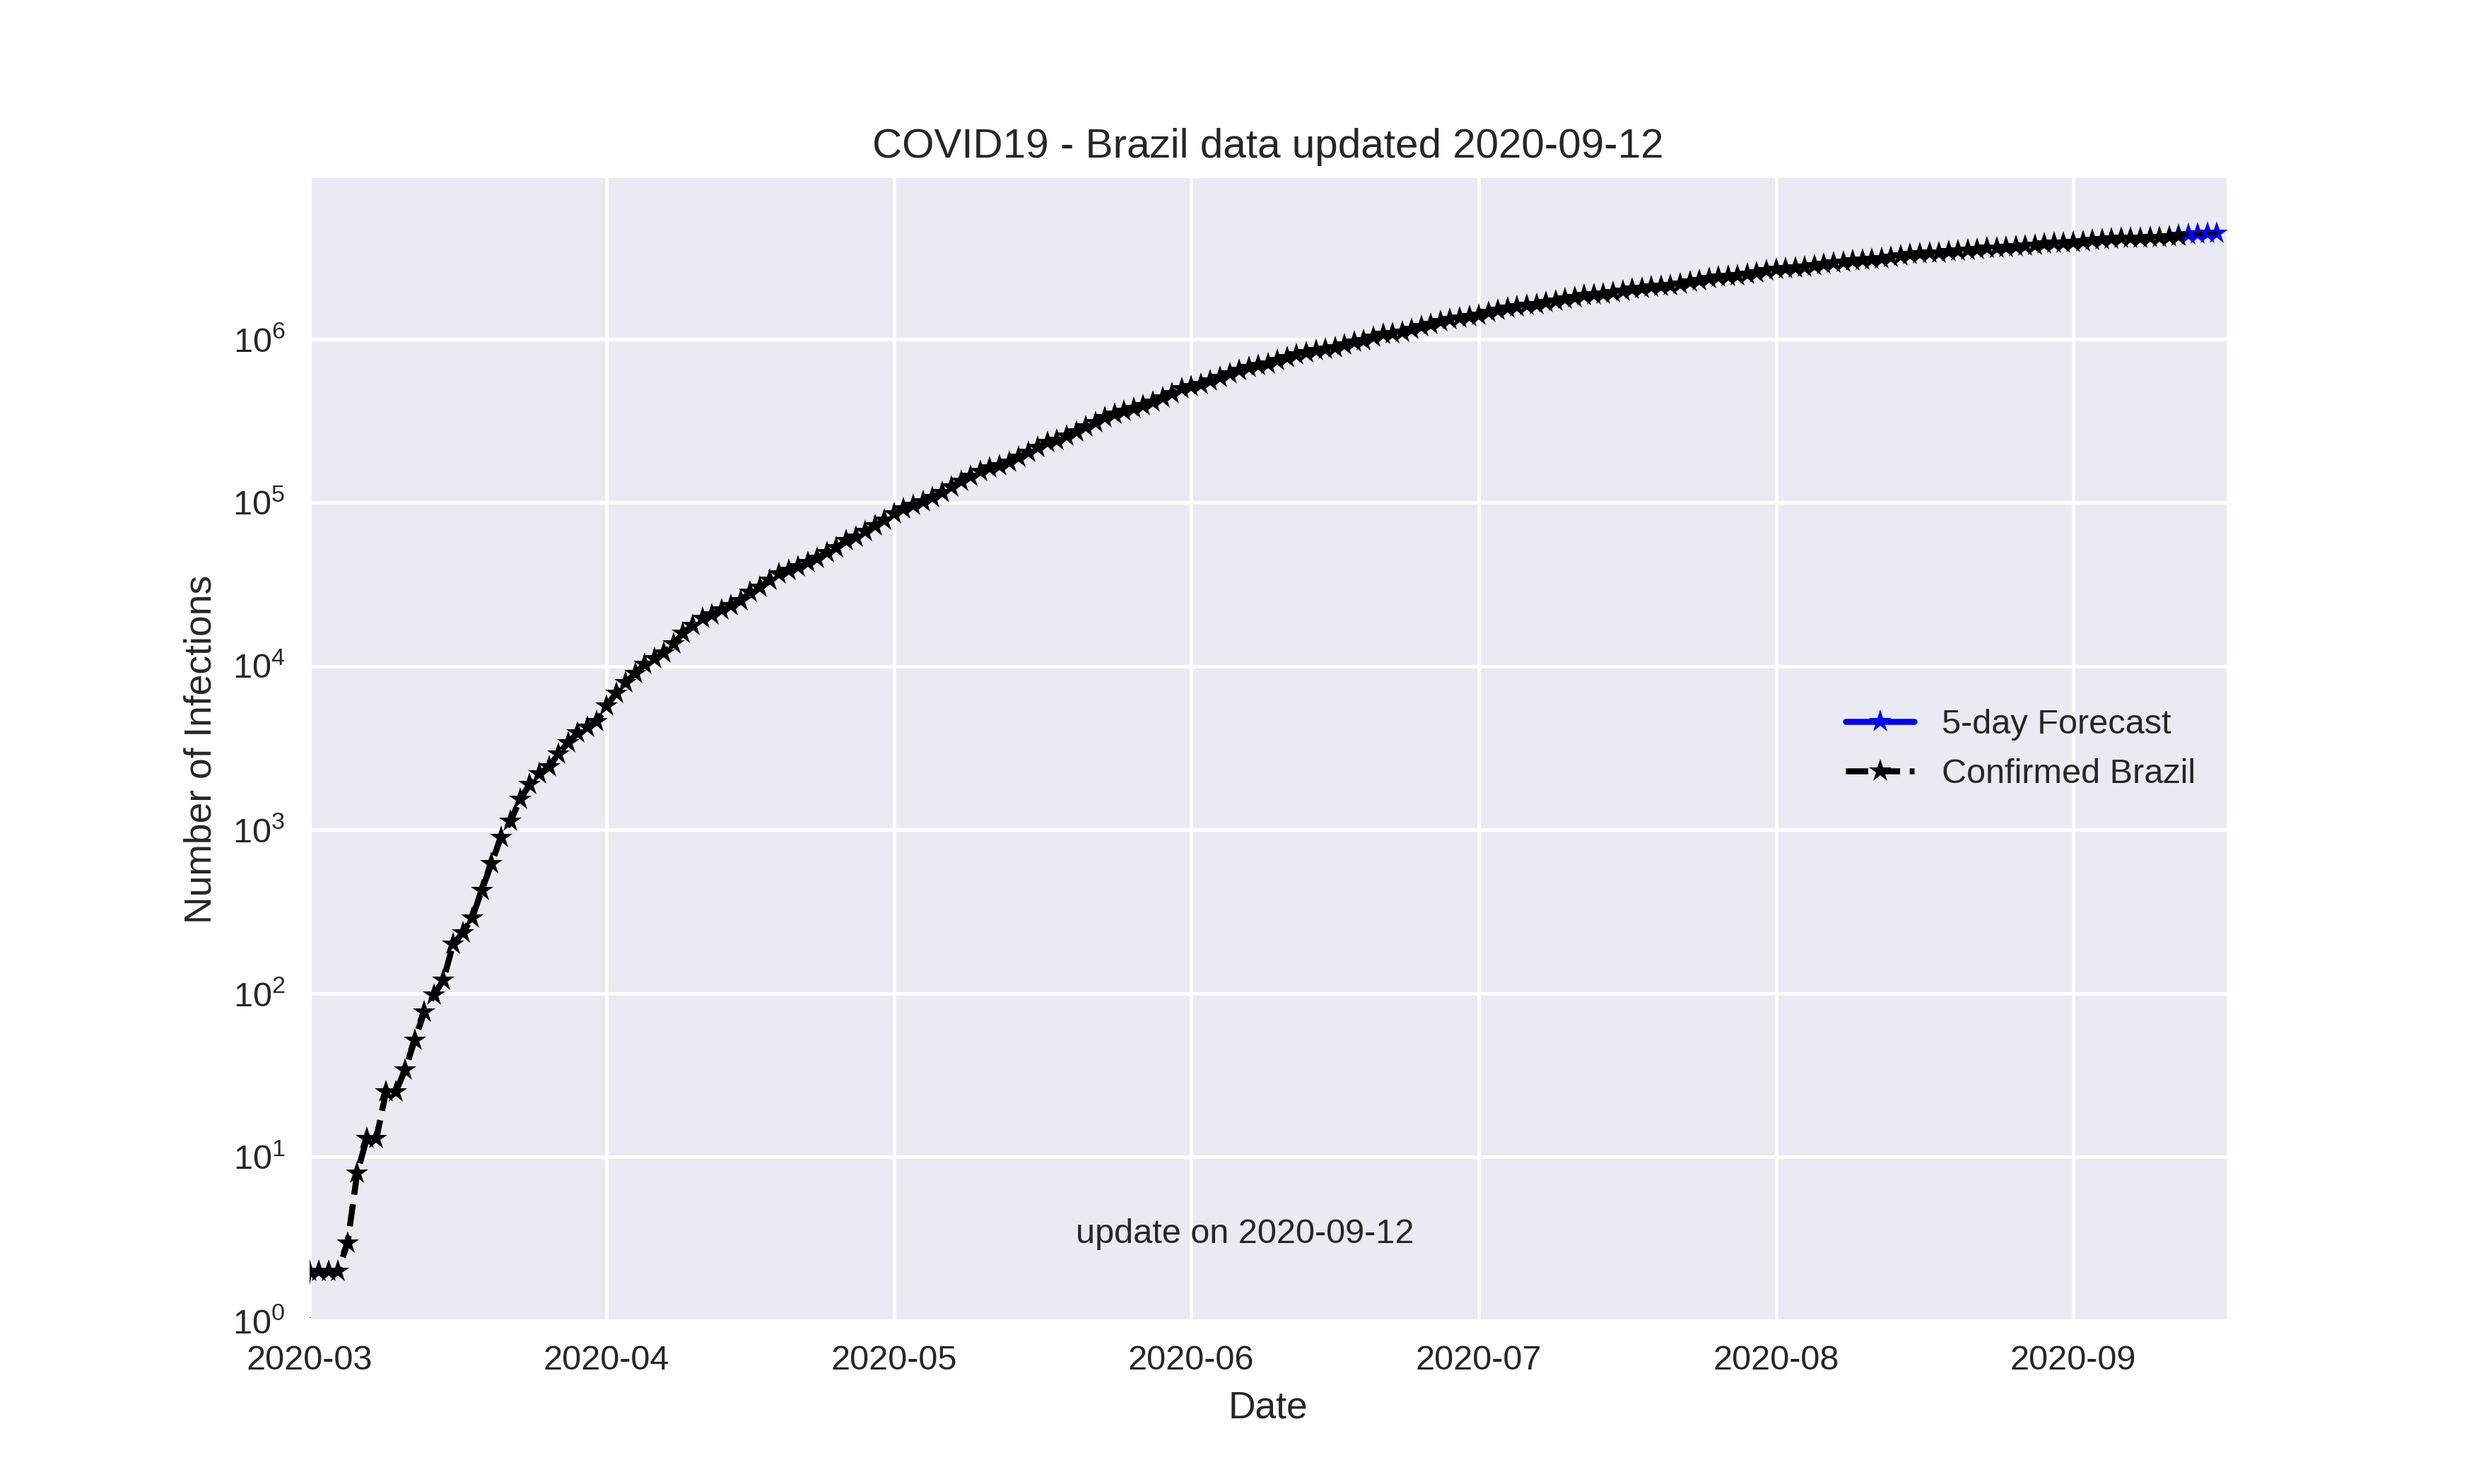
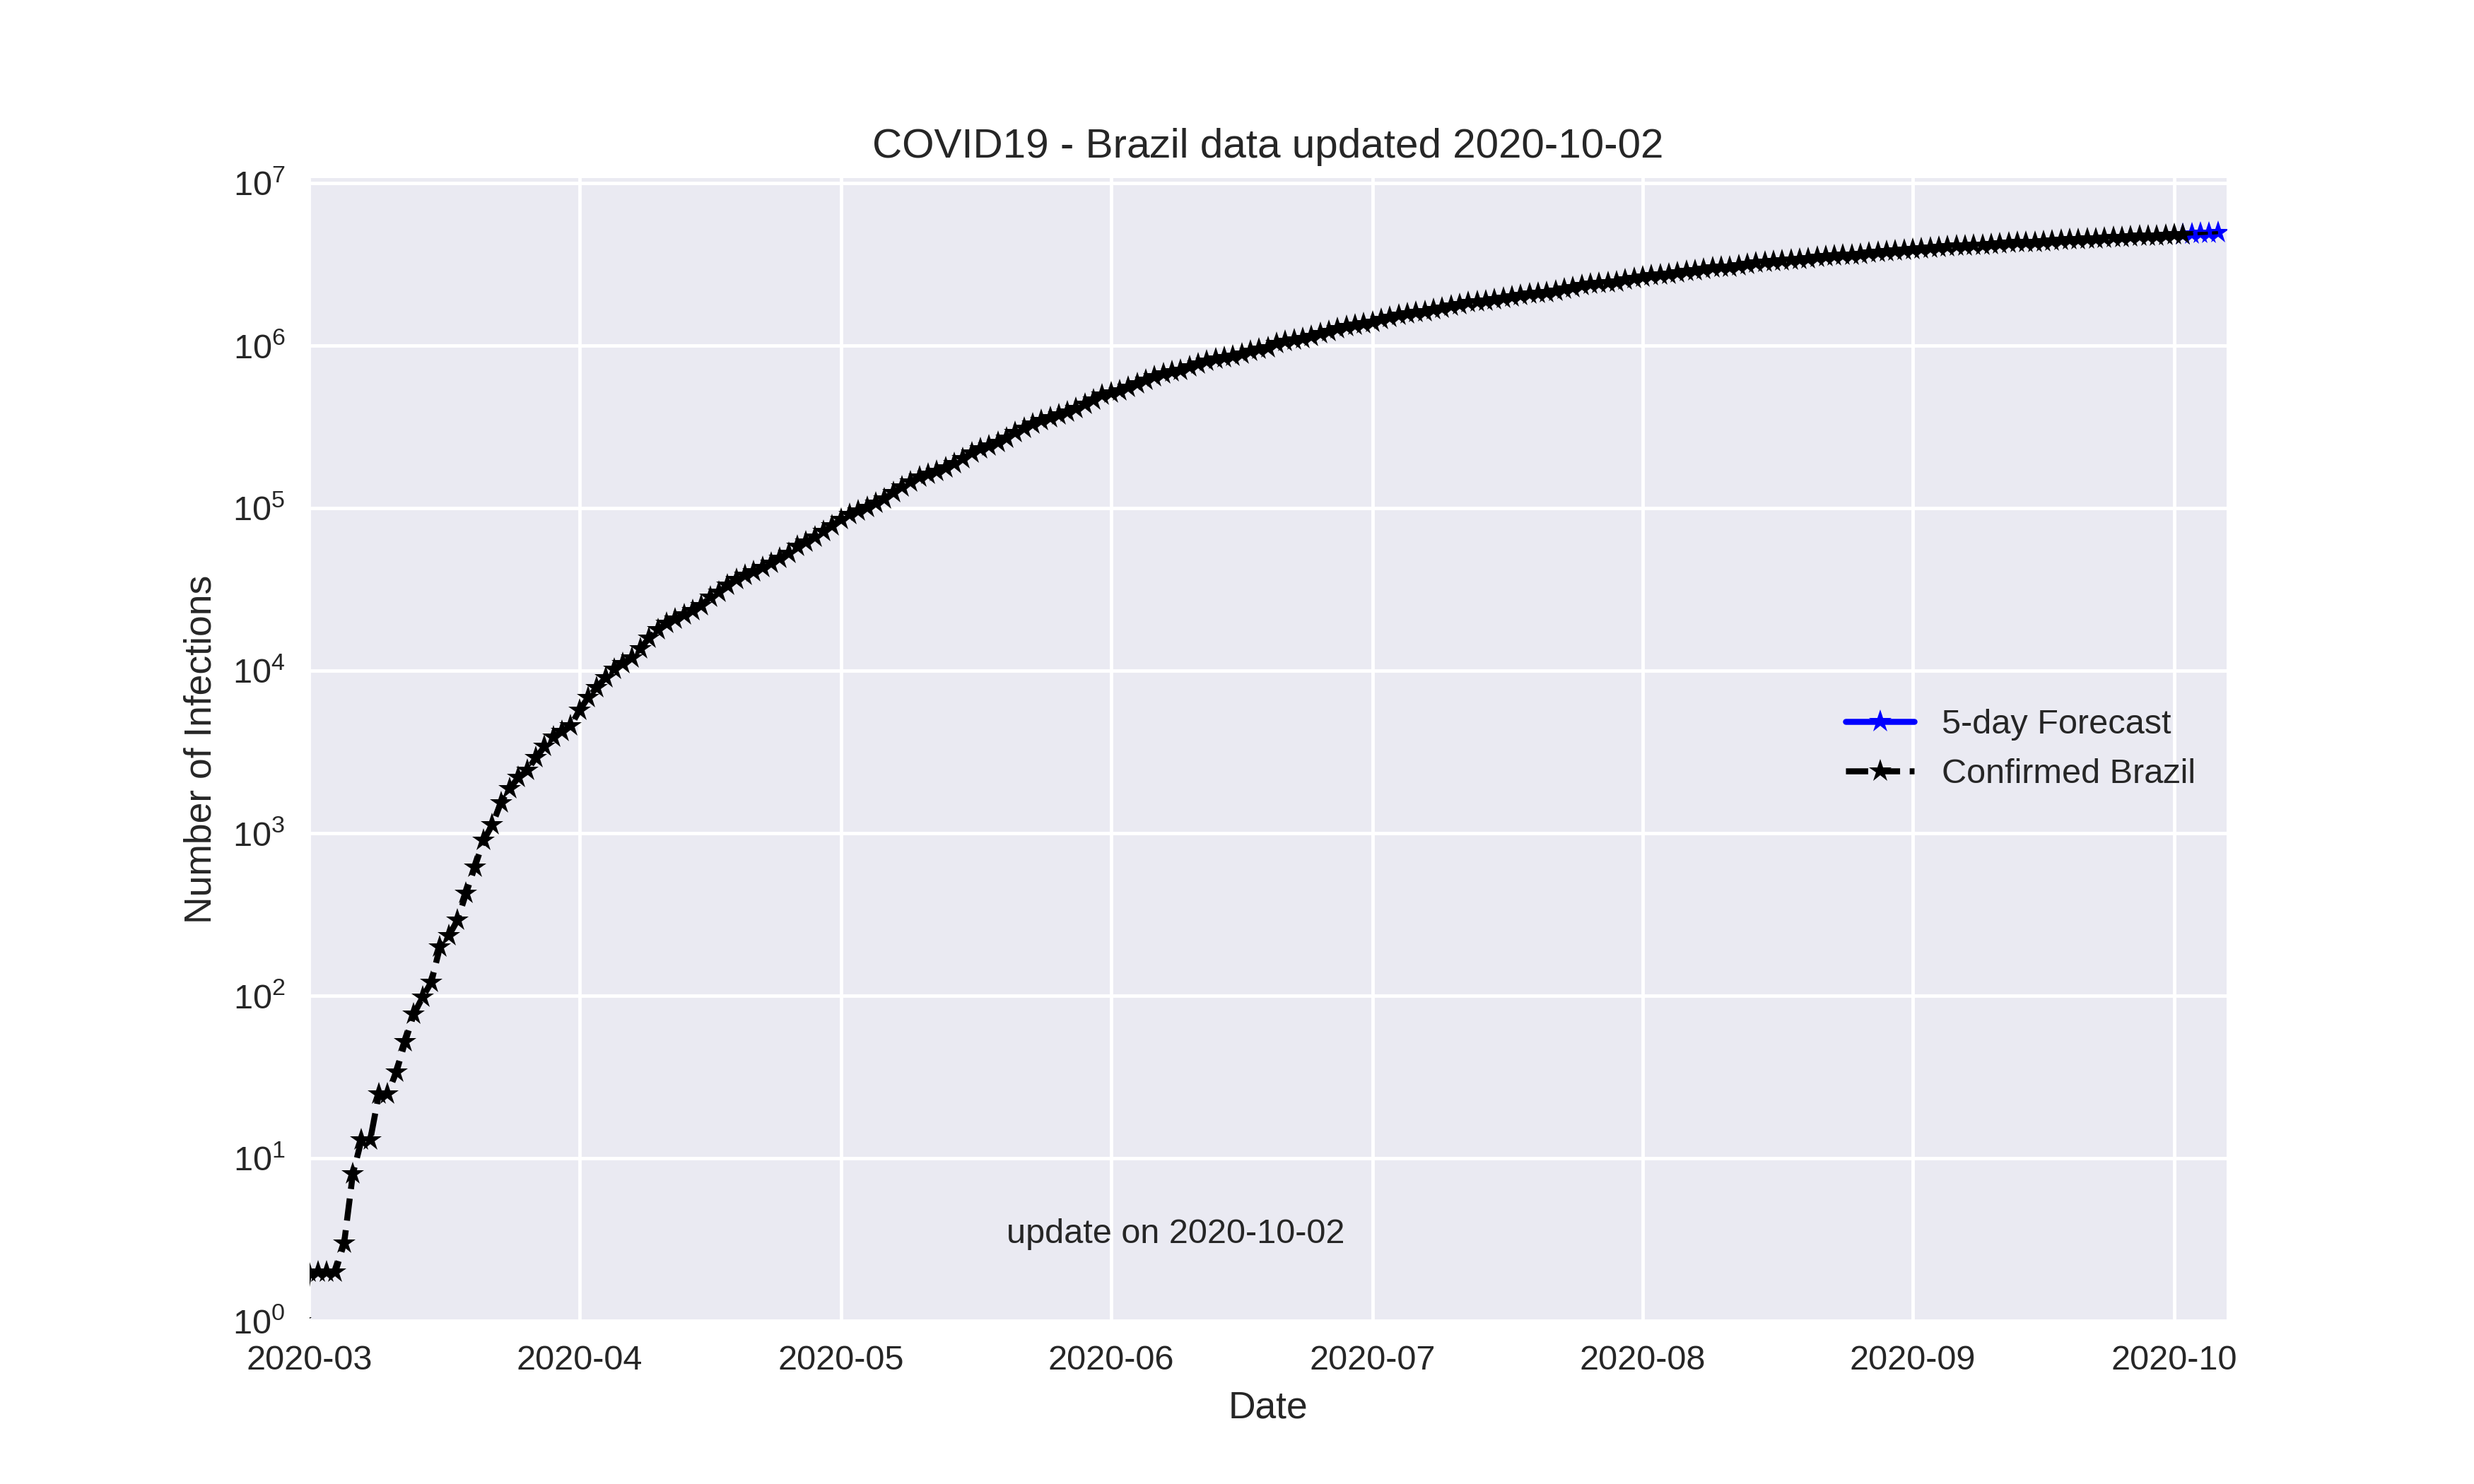
update image automake Brazil world

diff --git a/README.md b/README.md
@@ -95,11 +95,11 @@ This table predicts the number of infected people for Brazil.
 <!--prediction-->
 |    | Date       |   Prediction |
 |---:|:-----------|-------------:|
-|  0 | 2020-08-18 |      3396613 |
-|  1 | 2020-08-19 |      3442801 |
-|  2 | 2020-08-20 |      3489147 |
-|  3 | 2020-08-21 |      3535651 |
-|  4 | 2020-08-22 |      3582314 |
+|  0 | 2020-09-12 |      4306880 |
+|  1 | 2020-09-13 |      4343730 |
+|  2 | 2020-09-14 |      4380581 |
+|  3 | 2020-09-15 |      4417431 |
+|  4 | 2020-09-16 |      4454281 |
 
 
 * * *
